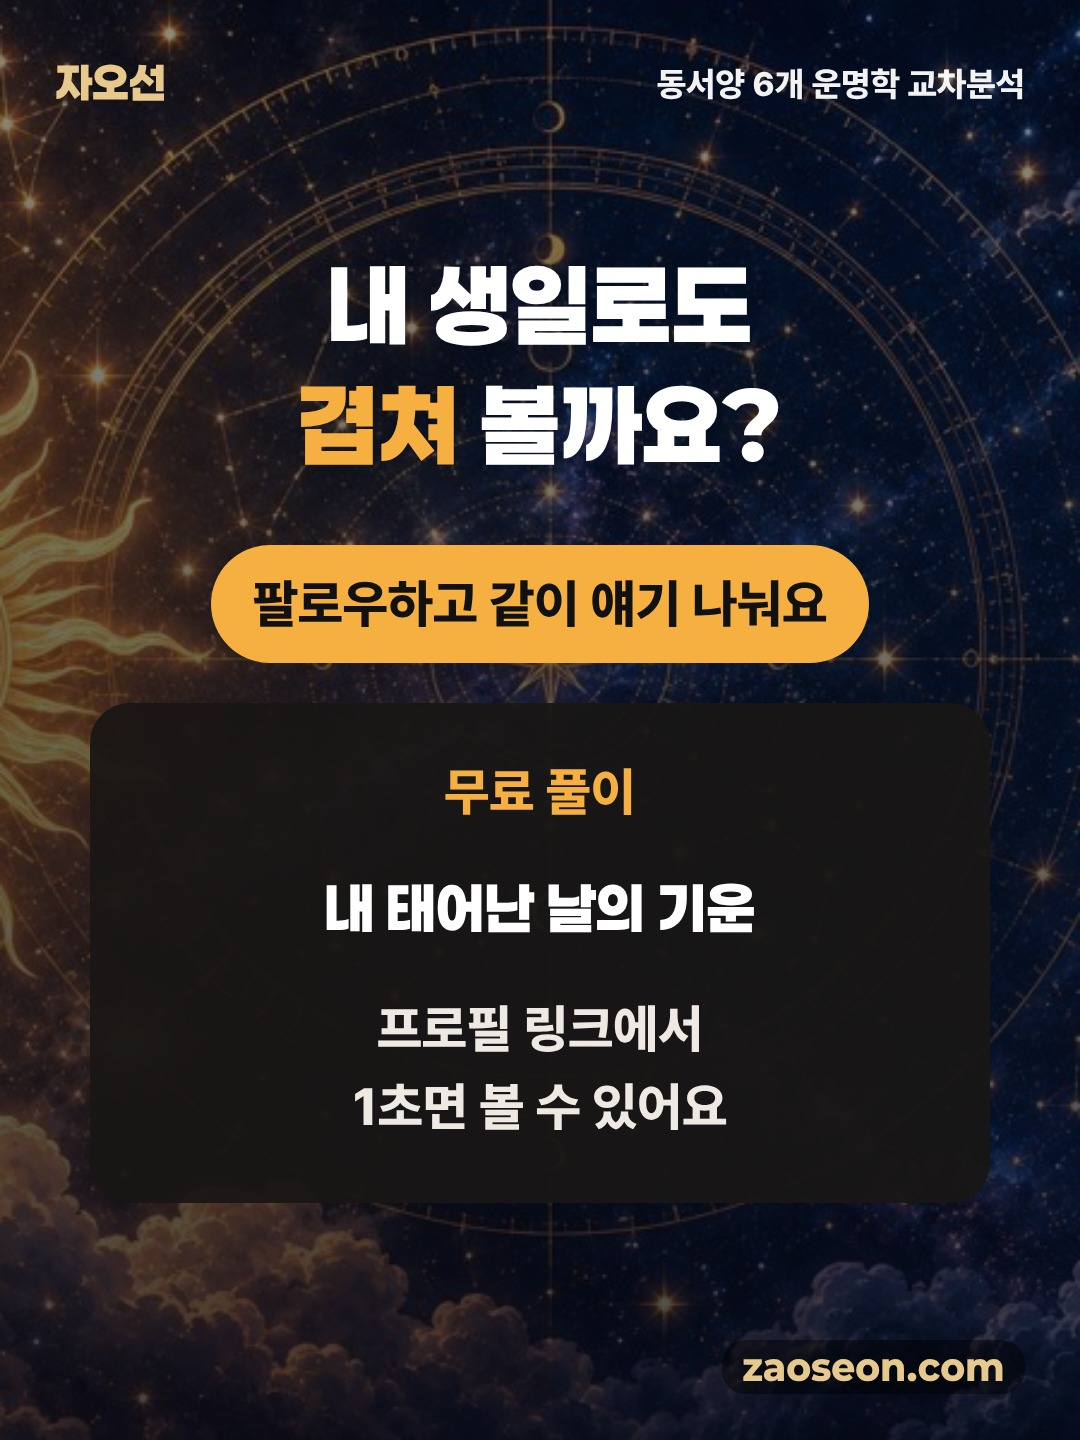
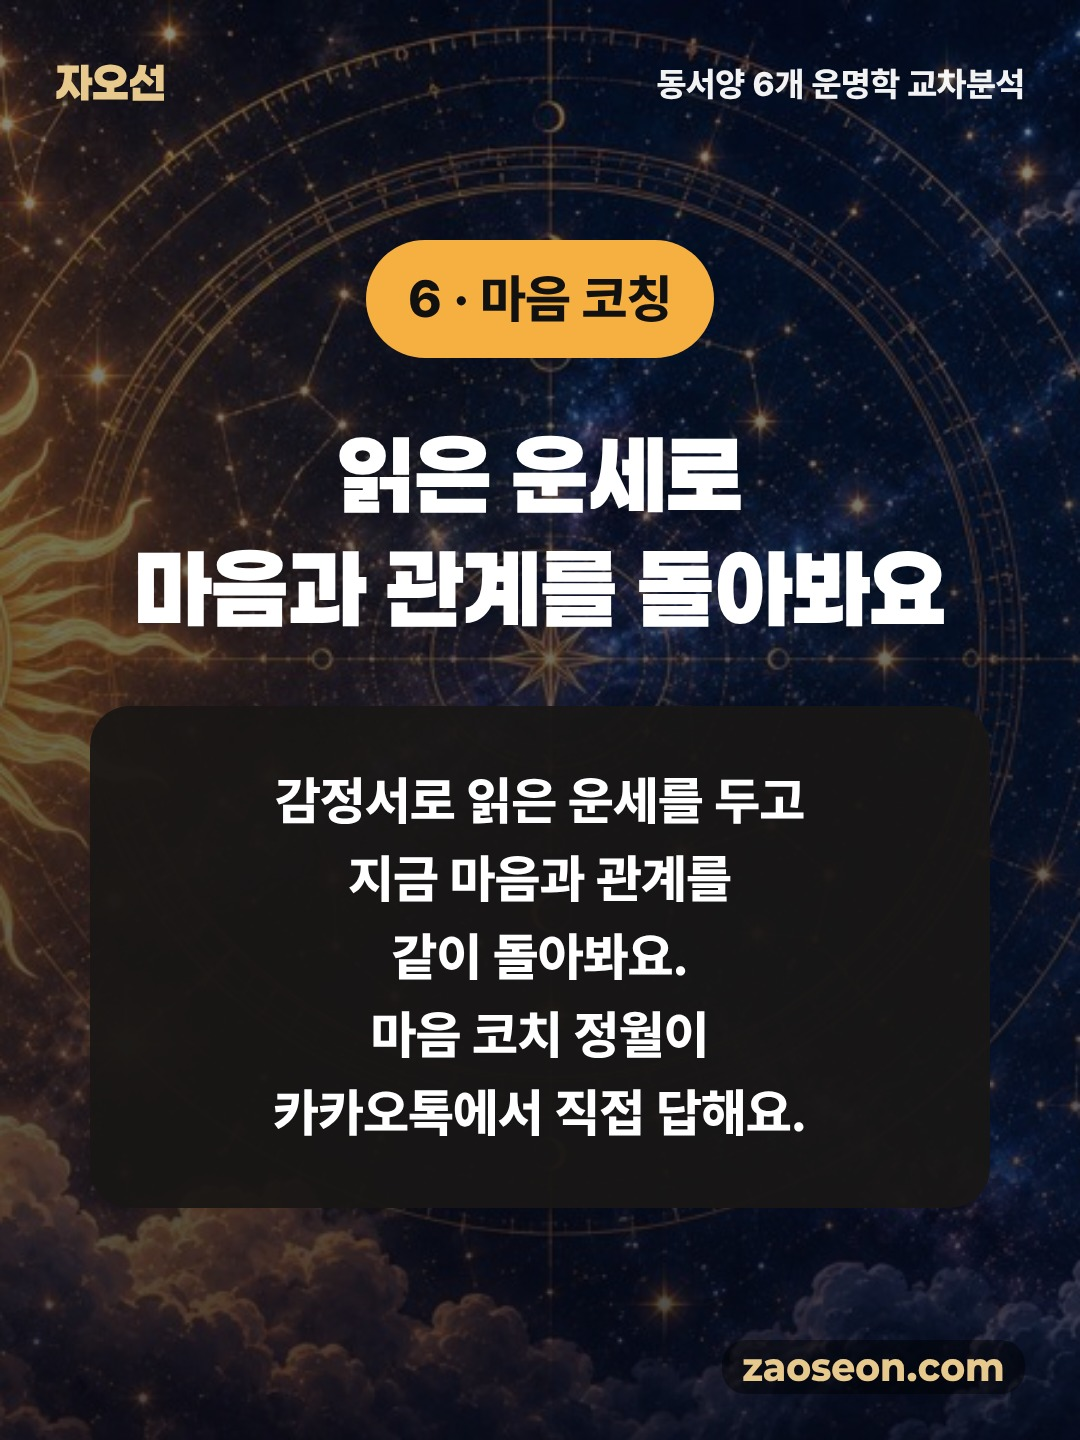
R55 만드는 방식 공개 시안: 6장 '마음 코칭을 더해요', 7장 마음·관계 코칭 추가(8장, 앱 요청 mv6anplt)
Claude-Session: https://claude.ai/code/session_01YLEPXGoXHNBmy7QvGUEpwS

Changed region(s): [[0.1222, 0.1562, 0.8861, 0.4688], [0.2444, 0.5312, 0.7639, 0.8125], [0.1833, 0.8125, 0.275, 0.8438]]

diff --git a/2026-w43howto/build.py b/2026-w43howto/build.py
@@ -1,6 +1,7 @@
 # 10/12 대표 앱 요청 mv56yi0u: R55 '만드는 방식 공개' 캐러셀 7장 시안(승인 전 시범).
 # 글은 새로 지어내지 않고 사이트 정본(zaoseon-site public/index.html '여섯 운명학을 겹쳐 읽어요'·'마음 코치, 정월'·FAQ 'AI가 쓴 감정서인가요?')의 문장만 줄여 쓴다.
 # 틀: 2026-w43min7/build.py와 같은 R46·R47 표지·본문·CTA(build3 블록 높이 계산 배치). 6장은 정월 얼굴 + 검수·AI 고지.
+# 10/13 mv6anplt: 6장 제목에 '마음 코칭을 더해요', 7장 마음 코칭(마음·관계) 추가 → 8장.
 # 사용: python3 2026-w43howto/build.py → 2026-w43howto/cards/howto_{n}.jpg (1080x1440)
 import sys, os, asyncio, re
 HERE = os.path.dirname(os.path.abspath(__file__)); ROOT = os.path.join(HERE, '..')
@@ -19,20 +20,23 @@ BODIES = [
  ('3 · 같은 말', '여럿이 같은 말을\n하는 곳부터 봐요', '여럿이 같은 말을 하면\n더 눈여겨볼 이야기예요.\n감정서 첫 장에 결론으로 적어요.'),
  ('4 · 다른 말', '서로 다른 말을\n하는 곳도 있어요', '그곳이 바로\n내가 고를 수 있는 부분이에요.\n선택지와 결과를 함께 풀어요.'),
 ]
-CHECK = ('5 · 직접 읽기', 'AI가 돕고,\n코치가 직접 읽어요',
-         '교차 분석·정리는 AI가 도와요.\n검수는 코치가 직접 해요.\n원국과 풀이를 보완해 완성해요.')
+CHECK = ('5 · 직접 읽기', 'AI가 돕고,\n코치가 직접 읽고\n마음 코칭을 더해요',
+         '교차 분석·정리는 AI가 돕고,\n원국과 풀이는 코치가 검수해요.')
+# 10/13 대표 앱 요청 mv6anplt: 마음·관계 코칭 내용 추가. 사이트 정본 '카카오톡 1:1 마음 코칭' 블록 문장만 줄여 씀.
+COACH = ('6 · 마음 코칭', '읽은 운세로\n마음과 관계를 돌아봐요',
+         '감정서로 읽은 운세를 두고\n지금 마음과 관계를\n같이 돌아봐요.\n마음 코치 정월이\n카카오톡에서 직접 답해요.')
 CTA = ('내 생일로도\n*겹쳐* 볼까요?', '무료 풀이', '내 태어난 날의 기운', '프로필 링크에서\n1초면 볼 수 있어요')
 
 def check_page_(badge, title, text):
-    for fh in (300, 260, 220, 180):
+    for fh, ts in ((300, 84), (260, 84), (220, 84), (180, 84), (220, 76), (180, 76)):
         p = new(); p.bg = 'ink'
-        place(p, [FACE(p, FACE_NAME, fh, 'center'), PILL(p, badge, 52, None, 'center'), T(p, title, 84, '#fff', 'title', 1.3, 'center', 900, '제목'), PANEL(p, [IN(p, text, 52)])])
+        place(p, [FACE(p, FACE_NAME, fh, 'center'), PILL(p, badge, 52, None, 'center'), T(p, title, ts, '#fff', 'title', 1.3, 'center', 900, '제목'), PANEL(p, [IN(p, text, 52)])])
         t, bt, c = B.metrics(p)
         if not p.problems and t >= B.TOP - 1 and bt <= B.BOT + 1: break
     return p
 
 def pages():
-    return [cover_face(COVER)] + [body(*b) for b in BODIES] + [check_page_(*CHECK), cta(*CTA)]
+    return [cover_face(COVER)] + [body(*b) for b in BODIES] + [check_page_(*CHECK), body(*COACH), cta(*CTA)]
 
 async def main(out):
     from playwright.async_api import async_playwright
